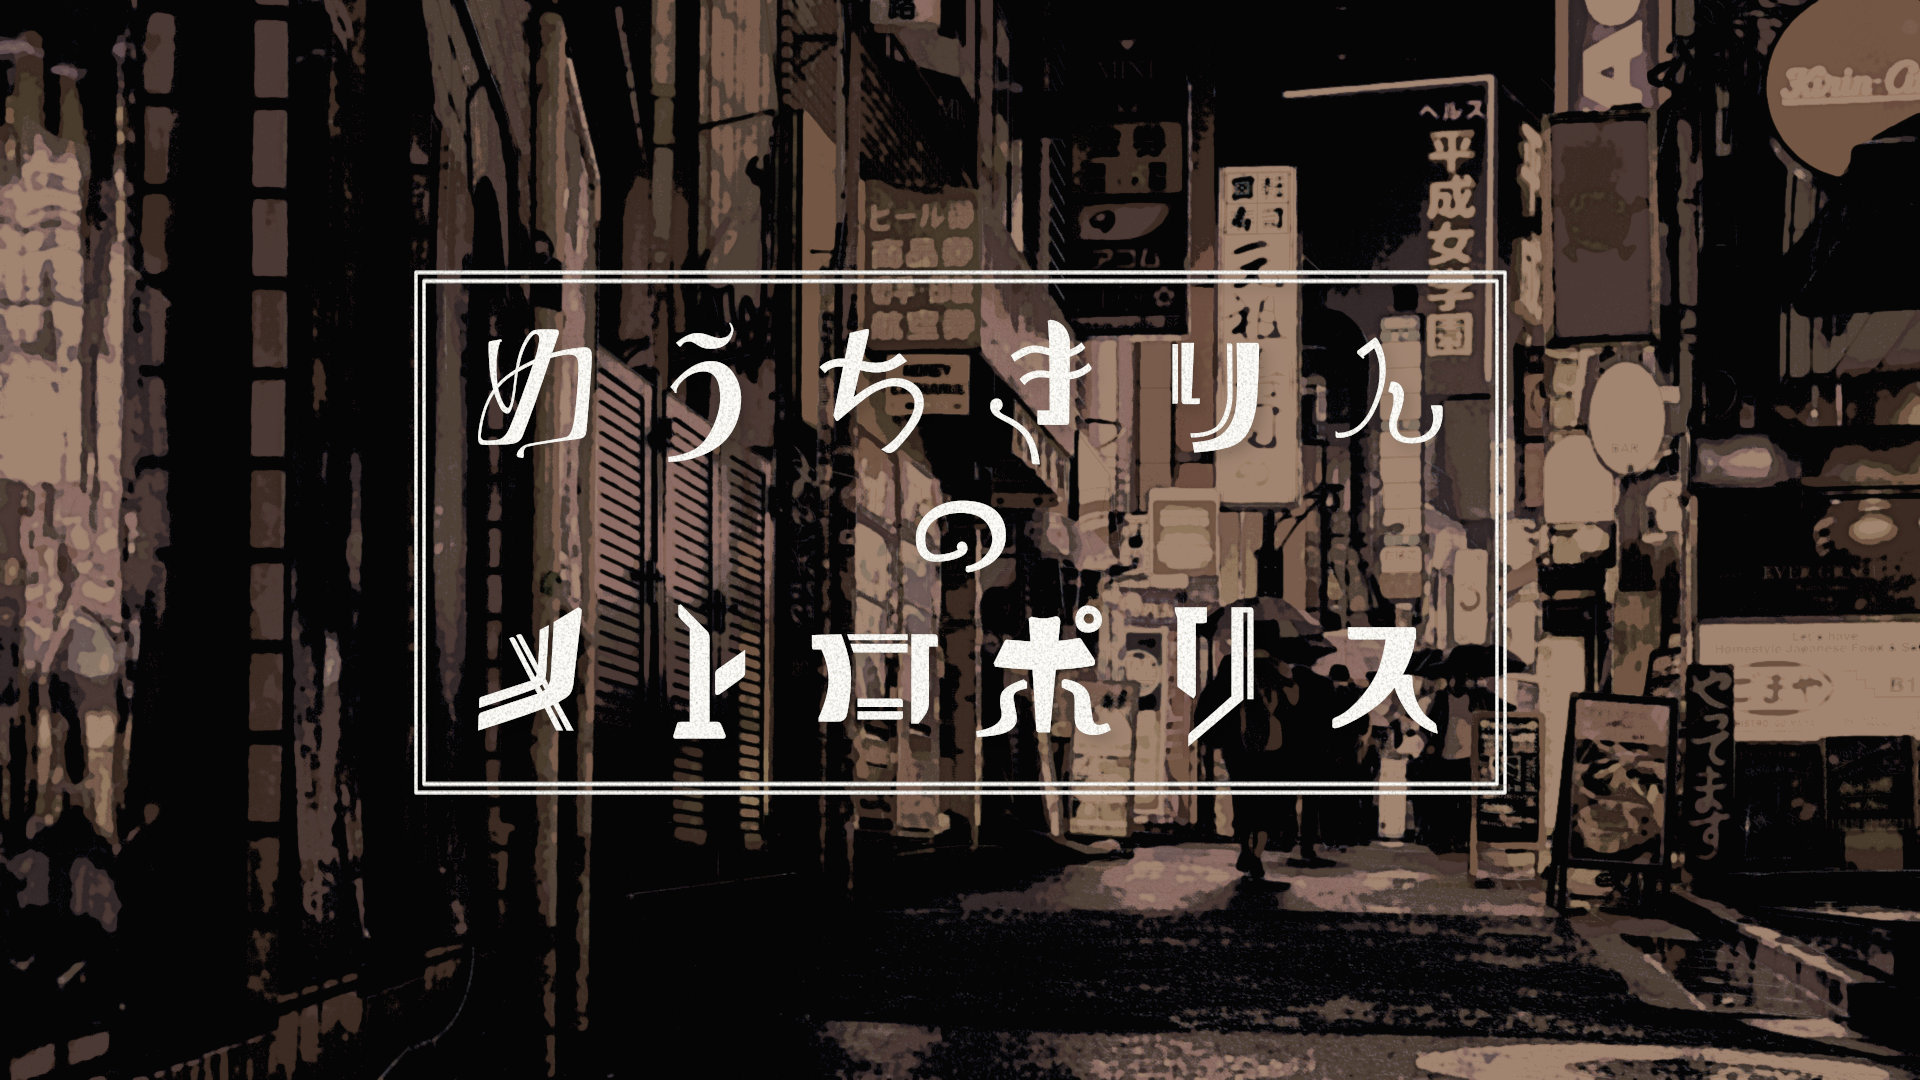
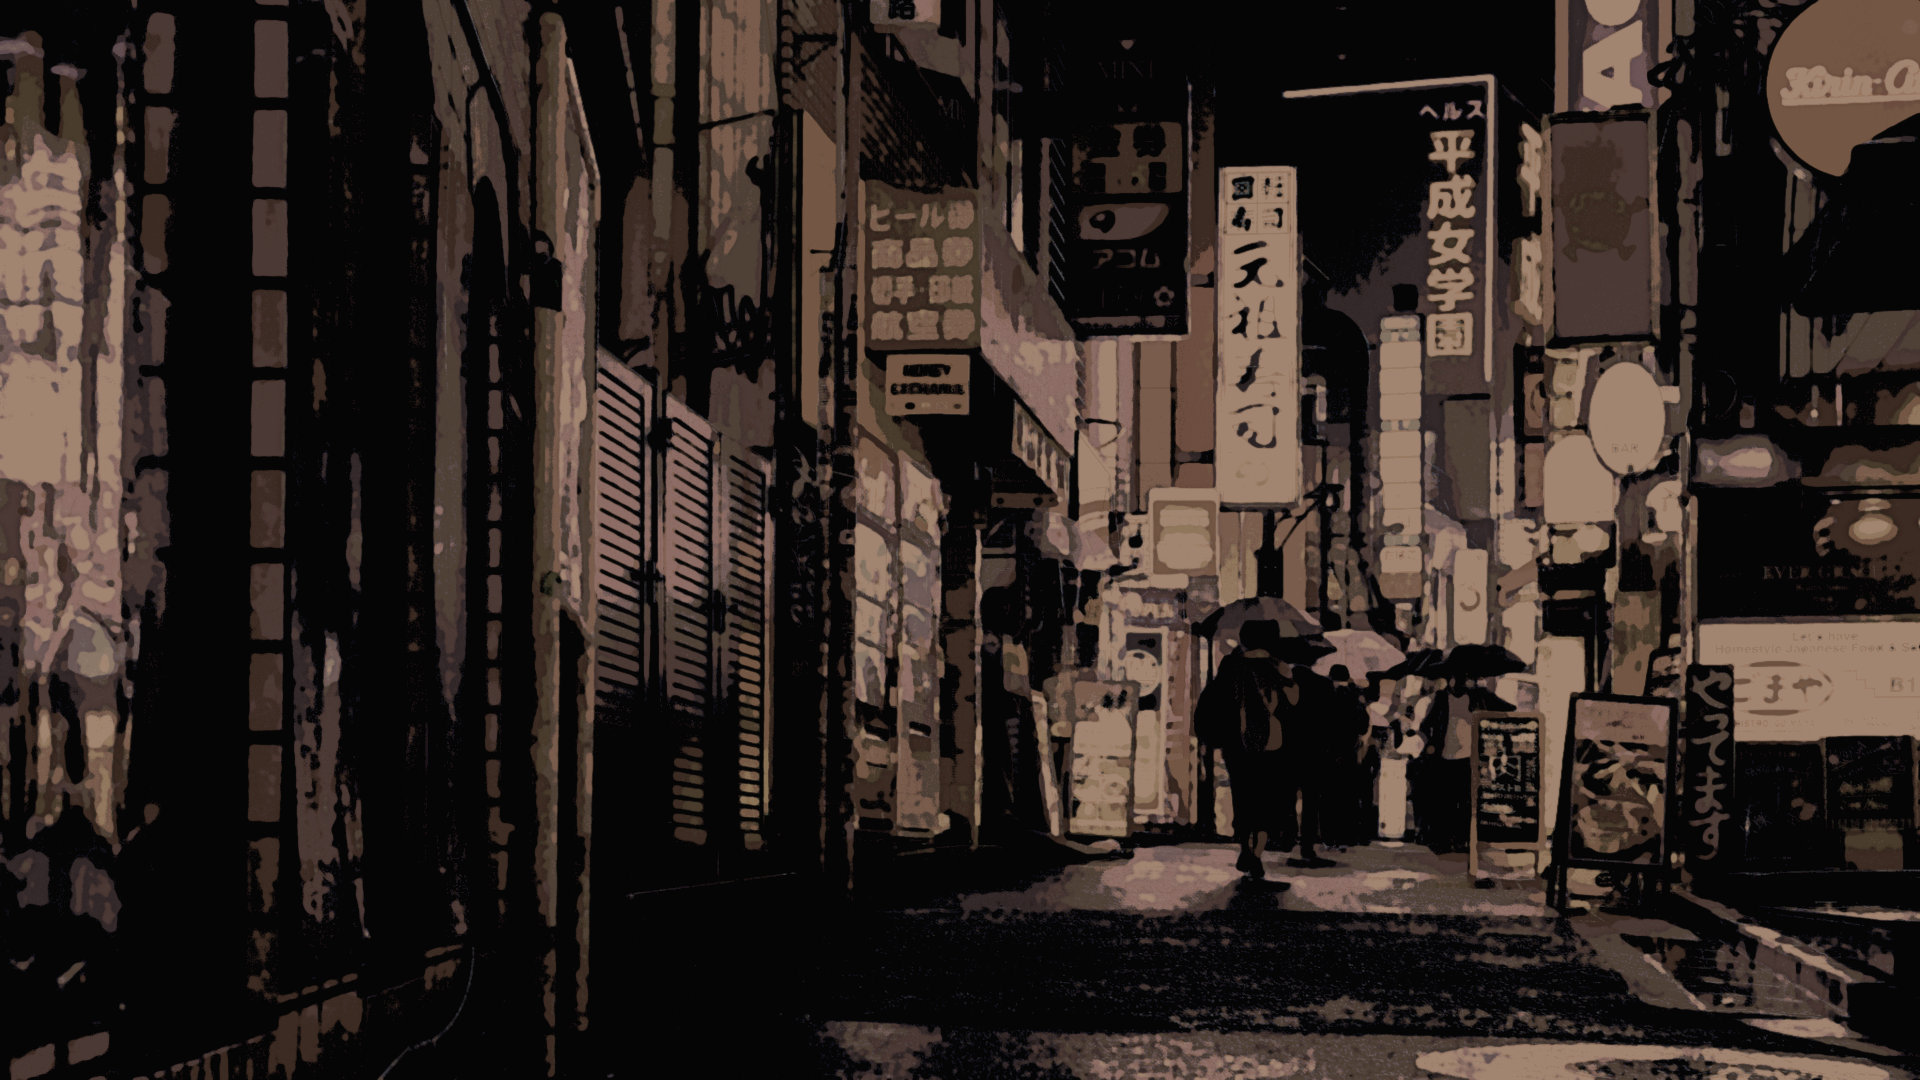
change background images

diff --git a/src/components/Top.js b/src/components/Top.js
@@ -1,6 +1,7 @@
 import React from 'react';
 
 import theme from '../assets/img/theme.jpg';
+import title from '../assets/img/title.png';
 import '../assets/css/Top.css';
 
 class Top extends React.Component {
@@ -14,7 +15,9 @@ class Top extends React.Component {
 
   render() {
     return (
-      <div className="top" style={this.state.topStyle} />
+      <div className="top" style={this.state.topStyle}>
+        <img className="title" src={title} alt="title"/>
+      </div>
     );
   }
 }

diff --git a/src/components/Download.js b/src/components/Download.js
@@ -1,13 +1,13 @@
 import React from 'react';
 
-import fireworks from '../assets/img/fireworks.jpg';
+import bar from '../assets/img/bar.jpg';
 
 class Download extends React.Component {
   constructor(props) {
     super(props);
 
     this.state = {
-      downloadStyle: { backgroundImage: `url(${fireworks})` }
+      downloadStyle: { backgroundImage: `url(${bar})` }
     };
   }
 

diff --git a/src/components/Overview.js b/src/components/Overview.js
@@ -1,13 +1,13 @@
 import React from 'react';
 
-import bar from '../assets/img/bar.jpg';
+import theme from '../assets/img/theme.jpg';
 
 class Overview extends React.Component {
   constructor(props) {
     super(props);
 
     this.state = {
-      overviewStyle: { backgroundImage: `url(${bar})` }
+      overviewStyle: { backgroundImage: `url(${theme})` }
     };
   }
 

diff --git a/src/assets/css/Top.css b/src/assets/css/Top.css
@@ -1,0 +1,8 @@
+.top img.title {
+  position: absolute;
+  top: 50%;
+  left: 50%;
+  transform: translateX(-50%) translateY(-50%);
+
+  width: 60vw;
+}
